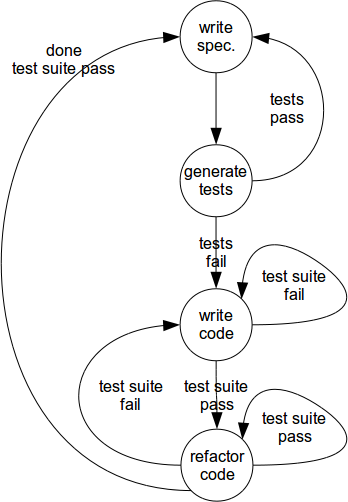
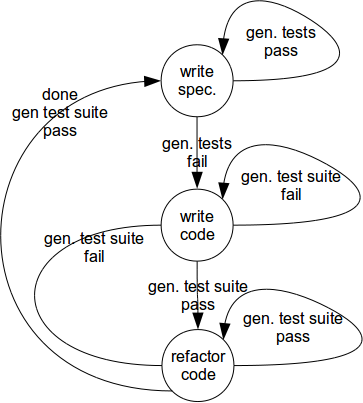
merged paper modified figure included many suggestions

diff --git a/papers/ModelBasedTestCaseGenerationDataStreamProtocol/paper.tex b/papers/ModelBasedTestCaseGenerationDataStreamProtocol/paper.tex
@@ -1,8 +1,3 @@
-%
-% "Agile Formality: A Mole of Software Verification Practices"
-% for Agile Methods+Formal Methods 2010
-% Vieri del Bianco, Joseph Kiniry, Dragan Stosic
-%
 
 %\documentclass{article}
 \documentclass[english]{lni}
@@ -336,19 +331,21 @@ They share a common approach on team management, customer relation, simplificati
 The Agile Manifesto~\cite{Beck2001} summarizes the philosophy and principles shared by all agile methodologies.
 
 % verification practices in agile methodologies
-The agile manifesto does not introduce any specific techniques to be used in the development process, it describes agile methodologies from a very high abstraction level.
-Nevertheless most of the agile methodologies share a similar approach to artifacts verification.
+The Agile Manifesto does not suggest any specific development techniques, it describes agile methodologies from a very high abstraction level.
+Nevertheless, most agile methodologies share a similar approach to artifact verification.
 Functional test suites, to be used as precise requirements or user stories definition, are used in DSDM~\cite{Stapleton1997}, XP and Crystal Clear~\cite{Cockburn2004}. 
 Unit tests and TDD are mentioned, whether not completely accepted, in most of the agile methodologies defined so far.
 
 % abstraction in test suites
-High level test suites, composed of functional tests, describe requirements and bind together requirements documentation and system behaviour; the associated development cycle is one iteration long. 
-Low level test suites, composed of unit tests, describe the modules behaviour and bind together code documentation, code and the contract imposed on the module; the associated development cycle is usually less than one day (it can be as short as a few minutes).
+High level test suites, composed of functional tests, describe requirements and bind together requirements documentationand system behaviour: an informal requirement is supported by a set of functional tests. 
+The associated development cycle is one iteration long. 
+Low level test suites, composed of unit tests, describe the modules behaviour and bind together code documentation, code and the contract imposed on the module: unit tests represent the contract and the documentation. 
+The associated development cycle is less than one day (as short as a few minutes).
 
 % refactoring in iterative development
-Continuous refactoring~\cite{Fowler1999} enables an iterative and incremental development, since the system architecture and design, whether explicitly specified or not, need to be cleaned up and modified, to accommodate new requirements, services and modules.
+Continuous refactoring~\cite{Fowler1999} enables iterative and incremental development, since the system architecture and design, whether explicitly specified or not, must be cleaned up and modified, to accommodate new requirements, services and modules.
 Refactoring is possible and feasible because of the safety nets provided by the test suites, used as regression test suites.
-The automated test suites guarantees that the functionalities and behaviour already implemented in the code are not compromised by the system refactorings.
+Automated test suites guarantees that the functionalities and behaviour already implemented in the code are not compromised by refactorings.
 
 
 
@@ -383,15 +380,15 @@ As ESC/Java2 is fully automated, it is not sound, nor does it cover the whole Ja
 \label{sec:blending_formal_and_agile_development}
 
 % objectives, repeated
-The objective is to formally specify only parts of the system under development, in an incremental iterative process.
-Formal methodologies artifacts need to coexist with traditional agile development artifacts: requirements, expressed as functional tests or as formal specifications, handmade and generated tests, documentation, source code.
-The development process needs to guarantee consistency all over the involved artifacts.
+Our objective is to formally specify only parts of the system under development, in an incremental iterative process.
+Formal artifacts must coexist with informal ones: requirements, expressed as functional tests or as formal specifications, handmade and generated tests, documentation, source code.
+The development process needs to guarantee consistency over all the involved artifacts.
 
 % composition of the two worlds
-Both Test Driven Development (TDD) and classical Formal specification driven development (FDD) guarantee consistency on all the involved artifacts. 
-TDD force an iterative development, whether FDD support it without forcing it.
+Both Test Driven Development (TDD) and classical Formal specification Driven Development (FDD) guarantee consistency on all the involved artifacts. 
+Both TDD and FDD support iterative development.
 The development cycle adopted in TDD is shown in Figure \ref{fig:tdd_diagram} and the one adopted in classic FDD is shown in Figure \ref{fig:fdd_diagram}.
-It can be seen how unit tests in TDD are substituted in FDD by formal specifications supported by the verification environment, in our case the verification environment is the generated unit test suite.
+Unit tests, in TDD, are substituted, in FDD, by formal specifications supported by the verification environment, in our case the verification environment is the generated unit test suite.
 Formal specifications replace unit tests: they specify, document and verify the system under development.
 
 \begin{figure}[ht]
@@ -411,20 +408,21 @@ Formal specifications replace unit tests: they specify, document and verify the 
 \end{figure}
 
 % composition is not enough
+Is this enough to deal with formal and informal artifacts?
 FDD is used for the formal specified parts of the system, whether TDD is used for the remaining ones: a ``composition'' of formal and agile verification practices.
-Yet, it's not enough.
+Yet, it is not enough.
 There are several problem that still needs to be addressed.
-No communication between the two worlds is permitted, it's not defined how to formally specify a module after it was implemented and verified in a non formal way.
+No communication between the two worlds is permitted, it is not defined how to formally specify a module after it was implemented and verified in a non formal way.
 A module only partially specified is a sort of hybrid that needs to be treated accordingly.
-Finally, in the FDD cycle shown in Figure \ref{fig:fdd_diagram}, the implicit assumption is that it is always possible to identify the correct formal specifications of the system, but this is usually not the case.
-Identify the correct formal specification is a difficult task, that needs to be supported and verified by the development process.
+Finally, in the FDD cycle shown in Figure \ref{fig:fdd_diagram}, the implicit assumption is that it is always possible to identify the correct formal specifications of the system, but this is not always straighforward.
+Identify the correct formal specification is a difficult task that needs to be supported and verified by the development process.
 
 % FDD with handmade tests
 A partially specified module cannot be verified properly only through automatically generated tests.
-handmade tests have to be used together with generated ones.
-handmade tests verify complex behaviours that are not formally specified, or complex behaviours that are formally specified but cannot be replicated by the formal verification tools because of their inherent limits. 
-Limits in the formal verification tools need to be considered when deciding whether supporting the code with handmade tests, verification tools based on automatically generated tests~\cite{Glass2002} are not an exception.
-The development cycle to be used to blend formal specifications, handmade tests and code development is shown in Figure \ref{fig:fdd_hand_made_tests_diagram}: the formal specification drives the handmade tests, both handmade tests and the formal specification drive the code development.
+Handmade tests have to be used together with generated ones.
+Handmade tests verify complex behaviours that are not formally specified, or complex behaviours that are formally specified but cannot be replicated by the formal verification tools, because of the limits of the verification tools themselves. 
+The constraints imposed by formal verification tools~\cite{Glass2002} must be taken into account when deciding whether supporting the code with handmade tests, and verification tools based on automatically generated tests are not an exception.
+The development cycle able to blend formal specifications, handmade tests and code development is shown in Figure \ref{fig:fdd_hand_made_tests_diagram}: the formal specification drives the handmade tests, both handmade tests and the formal specification drive the code development.
 
 \begin{figure}[ht]
   \begin{minipage}[b]{0.49\linewidth}
@@ -444,11 +442,11 @@ The development cycle to be used to blend formal specifications, handmade tests 
 
 % test driven formal specification
 The opposite path still needs to be covered, moving incrementally from a tested code to a formally specified code.
-In this case, new handmade tests and existing working code drives the formal specification: Test Driven Formal specification (TDF).
+In this case, new handmade tests and existing working code drives the formal specification, this is what we call Test Driven Formal specification (TDF).
 The resulting development cycle to be used to incrementally add formal specifications to an existing working code is shown in Figure \ref{fig:tdf_diagram}.
 
 % all together belnds into a mole
-When the Mole verification practices are used together the initial objectives can be achieved: an incremental and iterative process, where development pace is defined by very short development cycles similar to TDD; complete freedom to decide what needs to be formally specified; the development cycles and the associated verification practice maintain the corresponding artifacts involved consistent, the correct development cycle is determined by the formality of the artifacts involved, ranging from pure development cycles, shown in Figure \ref{fig:tdd_diagram} and \ref{fig:fdd_diagram}, to blended ones, shown in Figure \ref{fig:fdd_hand_made_tests_diagram} and \ref{fig:tdf_diagram}.
+When the Mole verification practices are used together the initial objectives are achieved: an incremental and iterative process, where development pace is defined by very short development cycles similar to TDD; complete freedom to decide what is formally specified; the development cycles and the associated verification practices maintain the corresponding artifacts involved consistent, the correct development cycle is determined by the formality of the artifacts involved, ranging from pure development cycles, shown in Figure \ref{fig:tdd_diagram} and \ref{fig:fdd_diagram}, to blended ones, shown in Figure \ref{fig:fdd_hand_made_tests_diagram} and \ref{fig:tdf_diagram}.
 
 \todo{if time available: reason about test harness, who is providing what}
 
@@ -859,8 +857,8 @@ The software system parts not specified by the JML2 specification were specified
 \paragraph*{handmade unit tests}
 
 % handmade unit tests purposes
-handmade unit tests specifies the behaviour not specified by formal specification; nevertheless this is not the only purpose they have.
-handmade unit tests have been used to drive the development, since the Test Driven Development approach\cite{Beck2003} has been
+Handmade unit tests specifies the behaviour not specified by formal specification; nevertheless, this is not the only purpose they have.
+Handmade unit tests have been used to drive the development, since the Test Driven Development approach\cite{Beck2003} has been
 followed during development.
 
 % handmade unit tests suite structure
